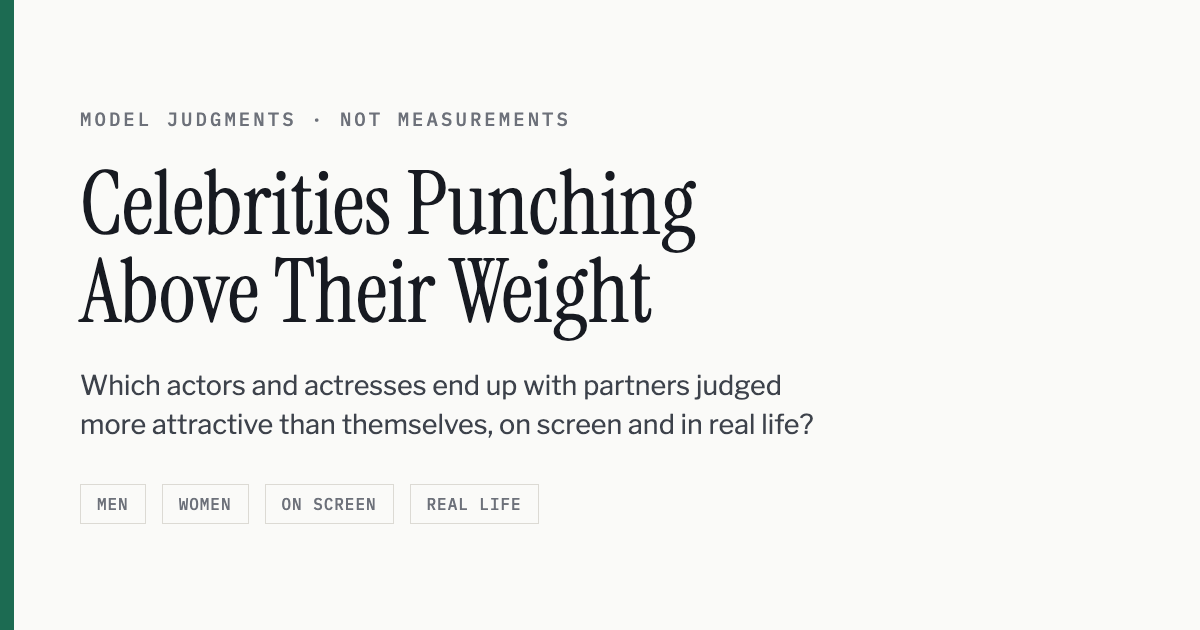
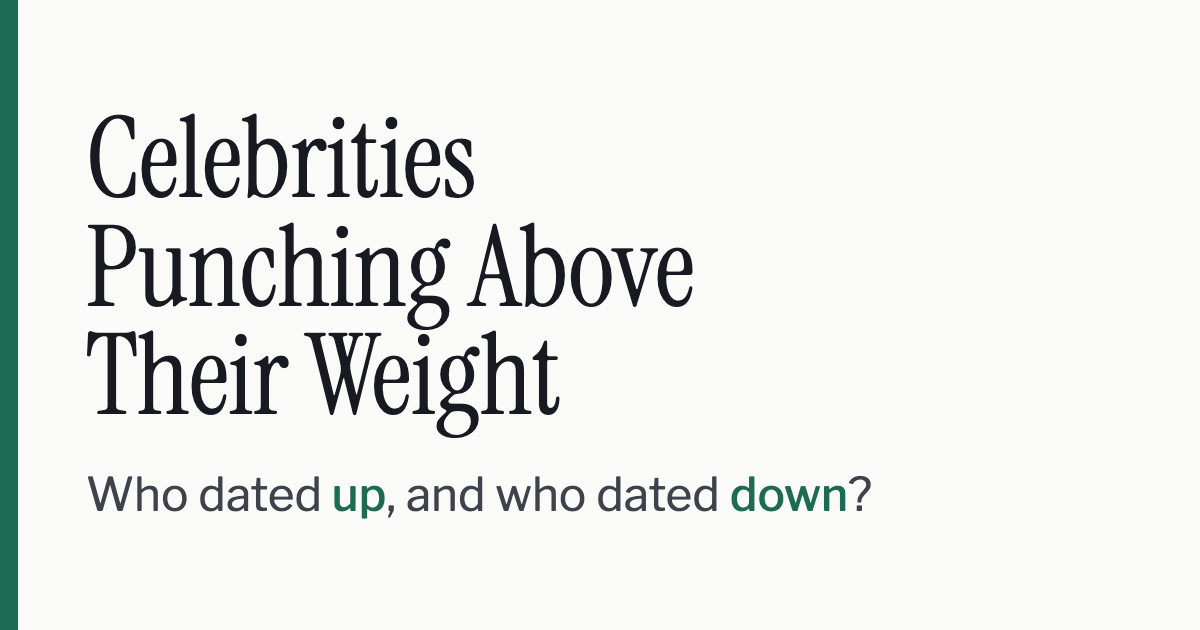
Rebuild the social card so it survives a compact thumbnail
LinkedIn's composer rendered the card at about 255px wide, roughly 21% scale.
Measured against the first design, only one of four elements survived:

  eyebrow   19px -> 4.0px    illegible
  headline  88px -> 18.7px   ok
  body      27px -> 5.7px    illegible
  chips     16px -> 3.4px    illegible

So three quarters of that card was decoration at the size most people would
actually see it. The tags were never the problem: LinkedIn resolved the title,
image and domain correctly on the first try.

The card now carries a 112px headline and one 46px line, and nothing else.
Both clear 9px in the thumbnail, and it still reads at full size where Twitter
shows summary_large_image. A test fails on any font-size under 42px on that
file, which is the threshold the measurement gives.

Deployed and verified: live og.png sha256 matches the local file.

1126 passed.

Claude-Session: https://claude.ai/code/session_01EriaJ6Mf7ePdKdJURVgE3g

Changed region(s): [[0.0617, 0.181, 0.6783, 0.6937], [0.0617, 0.754, 0.74, 0.8444], [0.0, 0.0, 0.0308, 1.0]]

diff --git a/web/og-card.html b/web/og-card.html
@@ -1,27 +1,22 @@
 <!doctype html><html lang="en"><head><meta charset="utf-8">
-<link rel="stylesheet" href="https://fonts.googleapis.com/css2?family=Instrument+Serif&family=Libre+Franklin:wght@400;500&family=IBM+Plex+Mono:wght@500&display=swap">
+<link rel="stylesheet" href="https://fonts.googleapis.com/css2?family=Instrument+Serif&family=Libre+Franklin:wght@400;500&display=swap">
 <style>
+/* Sized so it survives BOTH renderings. LinkedIn and Slack often show a ~255px
+   compact thumbnail, which is 21% scale: anything under about 42px here turns
+   to mush there. The old card had a 19px eyebrow, 27px body and 16px chips,
+   which came out at 4.0, 5.7 and 3.4px. Only the headline was readable.
+   Everything below is >= 46px. */
 *{box-sizing:border-box;margin:0}
 body{width:1200px;height:630px;background:#fafaf8;color:#171a21;
  font-family:"Libre Franklin",system-ui,sans-serif;display:flex;flex-direction:column;
- justify-content:center;padding:74px 80px;overflow:hidden}
-.eyebrow{font-family:"IBM Plex Mono",monospace;font-size:19px;letter-spacing:.16em;
- text-transform:uppercase;color:#6d717a;margin-bottom:26px;white-space:nowrap}
-h1{font-family:"Instrument Serif",Georgia,serif;font-weight:400;font-size:88px;
- line-height:1.0;margin-bottom:30px;max-width:19ch}
-p{font-size:27px;line-height:1.45;color:#3d424b;max-width:40ch}
-.row{display:flex;gap:16px;margin-top:40px}
-.chip{font-family:"IBM Plex Mono",monospace;font-size:16px;letter-spacing:.06em;
- text-transform:uppercase;color:#6d717a;border:1px solid #dcdad4;padding:9px 16px}
-.rule{position:absolute;left:0;top:0;width:14px;height:630px;background:#1c6b52}
+ justify-content:center;padding:0 86px;overflow:hidden;position:relative}
+.rule{position:absolute;left:0;top:0;width:18px;height:630px;background:#1c6b52}
+h1{font-family:"Instrument Serif",Georgia,serif;font-weight:400;font-size:112px;
+ line-height:0.97;letter-spacing:-.005em;max-width:15ch}
+p{font-size:46px;line-height:1.3;color:#3d424b;margin-top:34px;max-width:38ch;text-wrap:balance}
+p b{color:#1c6b52;font-weight:500}
 </style></head><body>
 <div class="rule"></div>
-<p class="eyebrow">Model judgments &middot; not measurements</p>
 <h1>Celebrities Punching Above Their Weight</h1>
-<p>Which actors and actresses end up with partners judged more attractive than
-themselves, on screen and in real life?</p>
-<div class="row">
-  <span class="chip">Men</span><span class="chip">Women</span>
-  <span class="chip">On screen</span><span class="chip">Real life</span>
-</div>
+<p>Who dated <b>up</b>, and who dated <b>down</b>?</p>
 </body></html>

diff --git a/tests/test_social_card.py b/tests/test_social_card.py
@@ -71,3 +71,16 @@ def test_the_card_carries_no_scores_so_it_cannot_go_stale():
     regenerating on every refresh, and will silently stop matching the board."""
     card = (REPO / "web/og-card.html").read_text()
     assert not re.search(r"[+−-]\d+\.\d\d", card), "the card quotes a score"
+
+
+def test_the_card_type_survives_a_compact_thumbnail():
+    """LinkedIn and Slack often render a ~255px thumbnail, about 21% scale.
+    The first card had a 19px eyebrow, 27px body and 16px chips, which came out
+    at 4.0, 5.7 and 3.4px - only the headline was readable. Nothing under 42px
+    earns its place on this image."""
+    card = (REPO / "web/og-card.html").read_text()
+    sizes = [int(m) for m in re.findall(r"font-size:(\d+)px", card)]
+    assert sizes, "no font sizes found; the selector changed"
+    too_small = [s for s in sizes if s < 42]
+    assert not too_small, (
+        f"{too_small} would render under 9px in a 255px thumbnail")
